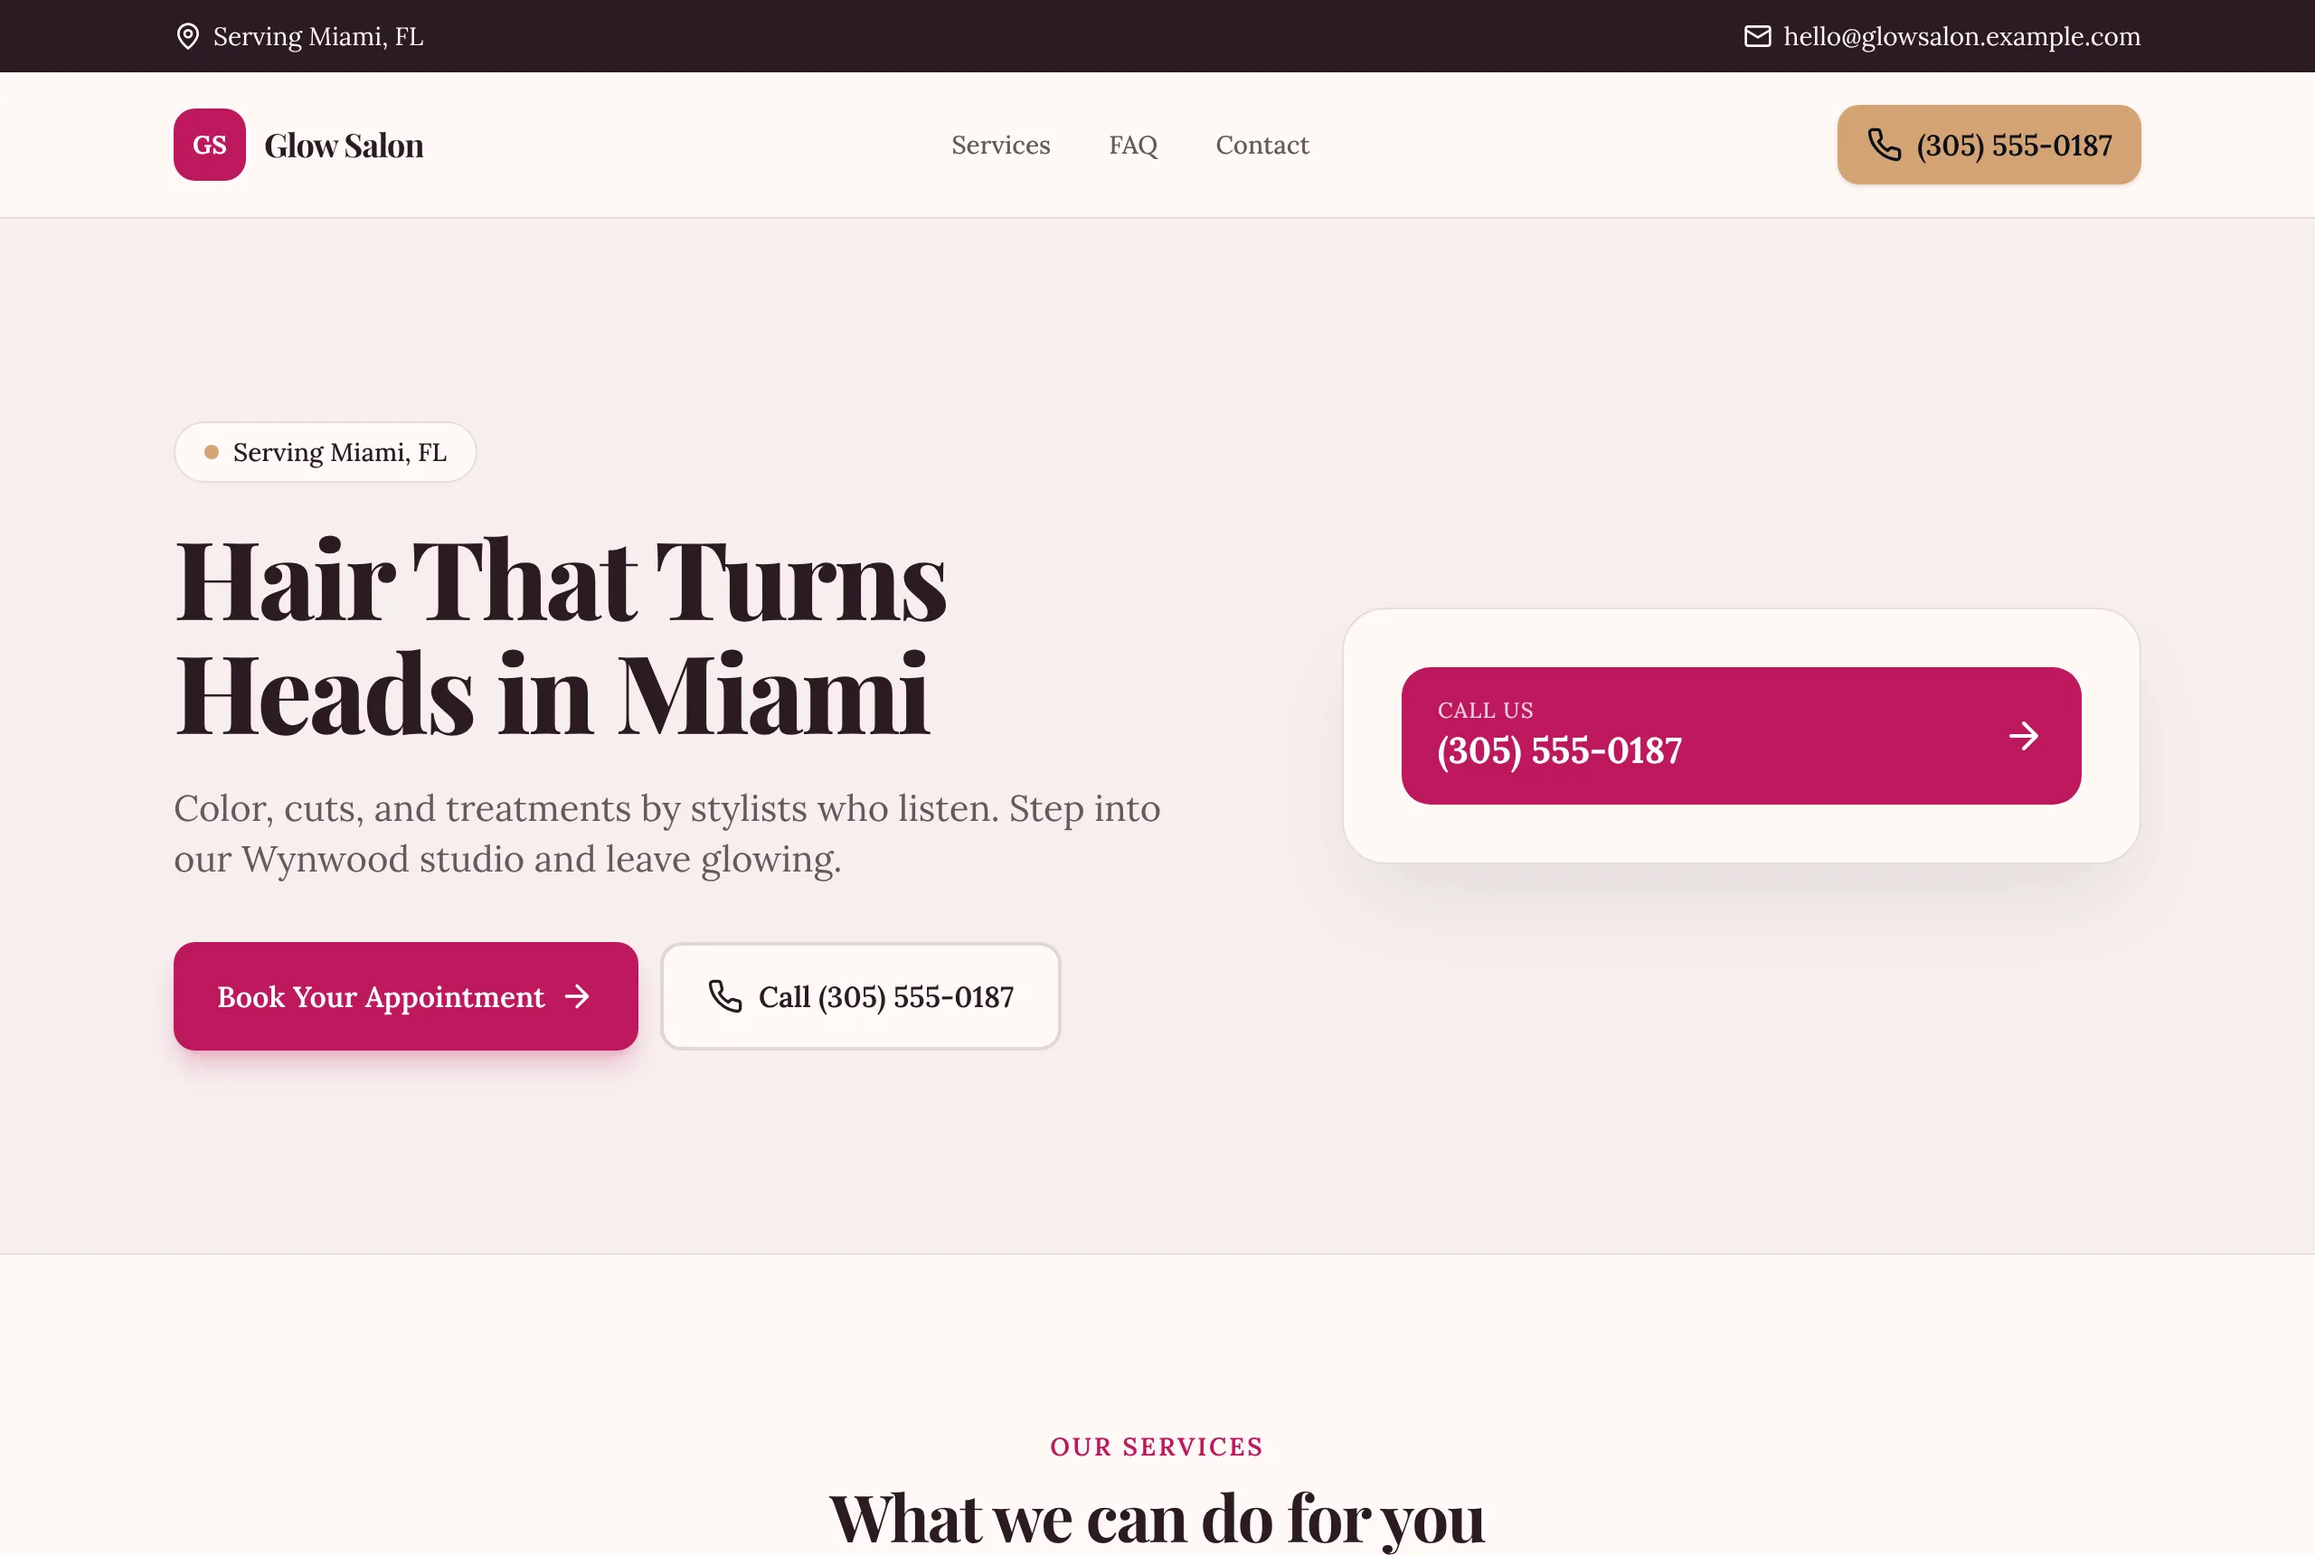
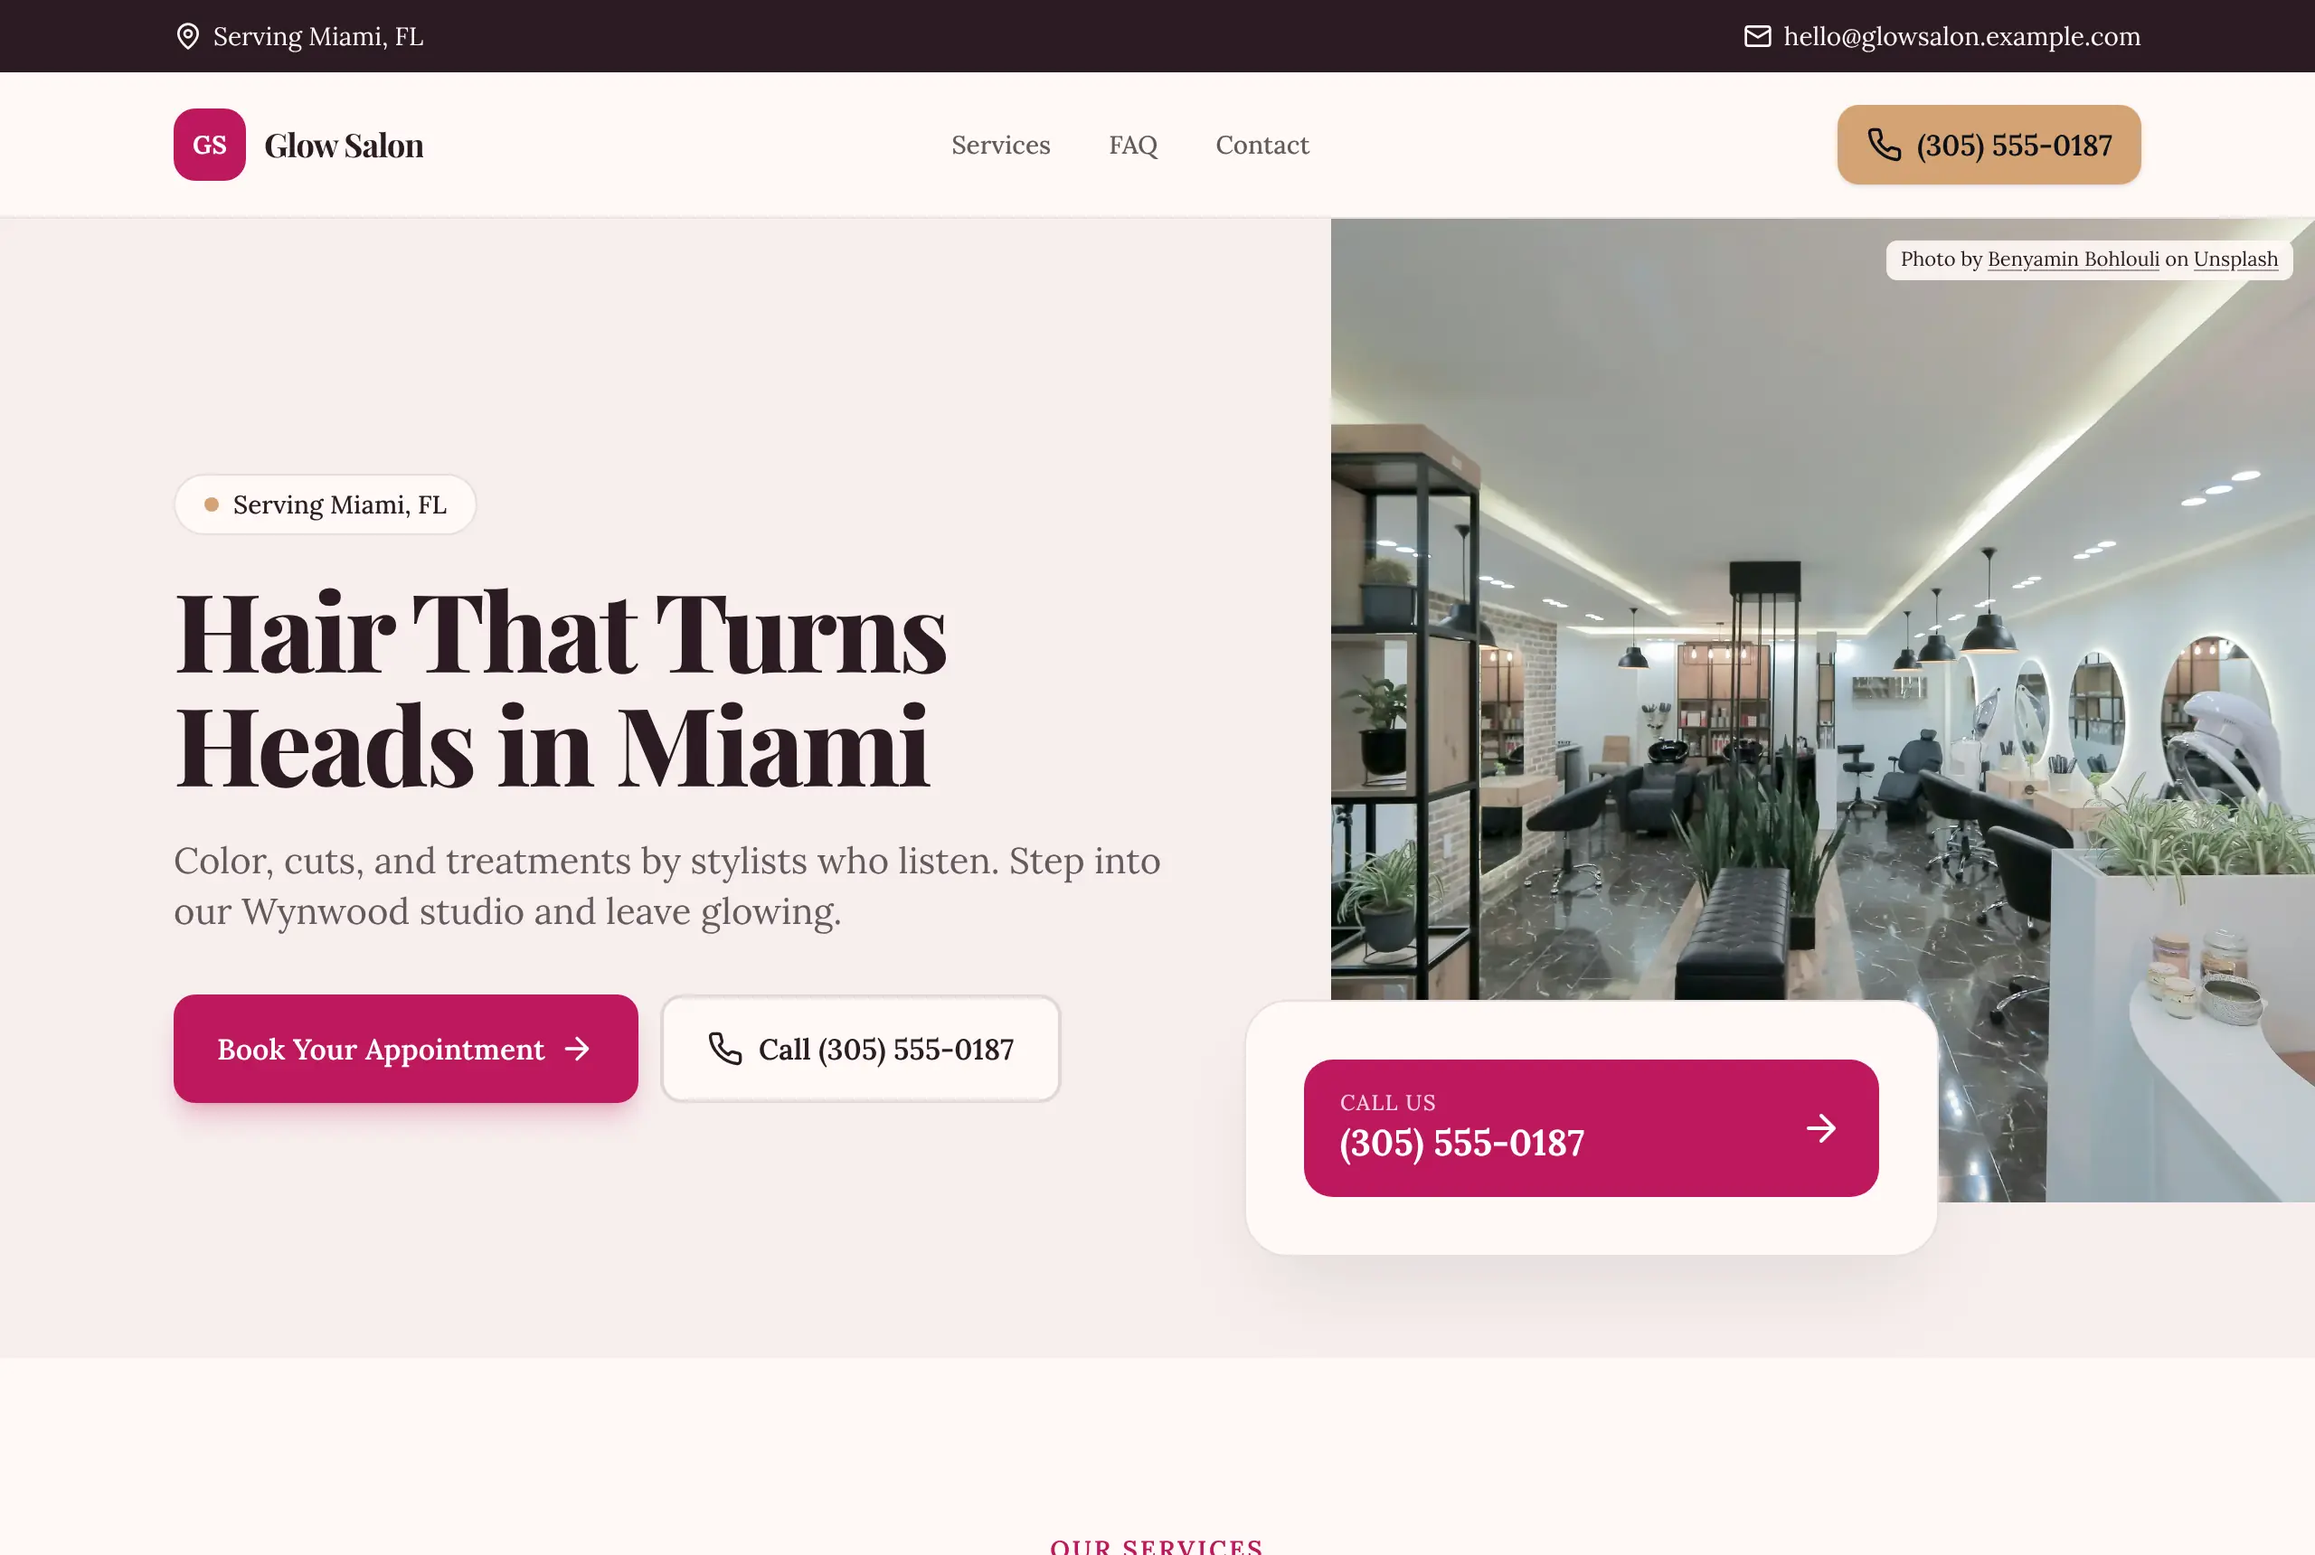
feat(landing): real product screenshots for the story and examples, with hero photos
Claude-Session: https://claude.ai/code/session_01NSDTc6FprdYm78GF2frN5D

diff --git a/apps/web/components/marketing/HeroPoster.tsx b/apps/web/components/marketing/HeroPoster.tsx
@@ -18,7 +18,7 @@ const DESKTOP_SIZES = "(min-width: 1024px) 680px, 100vw";
 // O ponto fica na BORDA do botão (não em cima do texto): topo do botão de ligar, base do
 // botão de orçamento.
 const CALL_TARGET = { x: 89, y: 6.8 };
-const ESTIMATE_TARGET = { x: 12, y: 78 };
+const ESTIMATE_TARGET = { x: 12, y: 76.2 };
 
 // Distância da borda da imagem até fora da moldura: barra de endereço (2.5rem) + borda + 1rem.
 const OUTSIDE = "(2.5rem + 1px + 1rem)";
